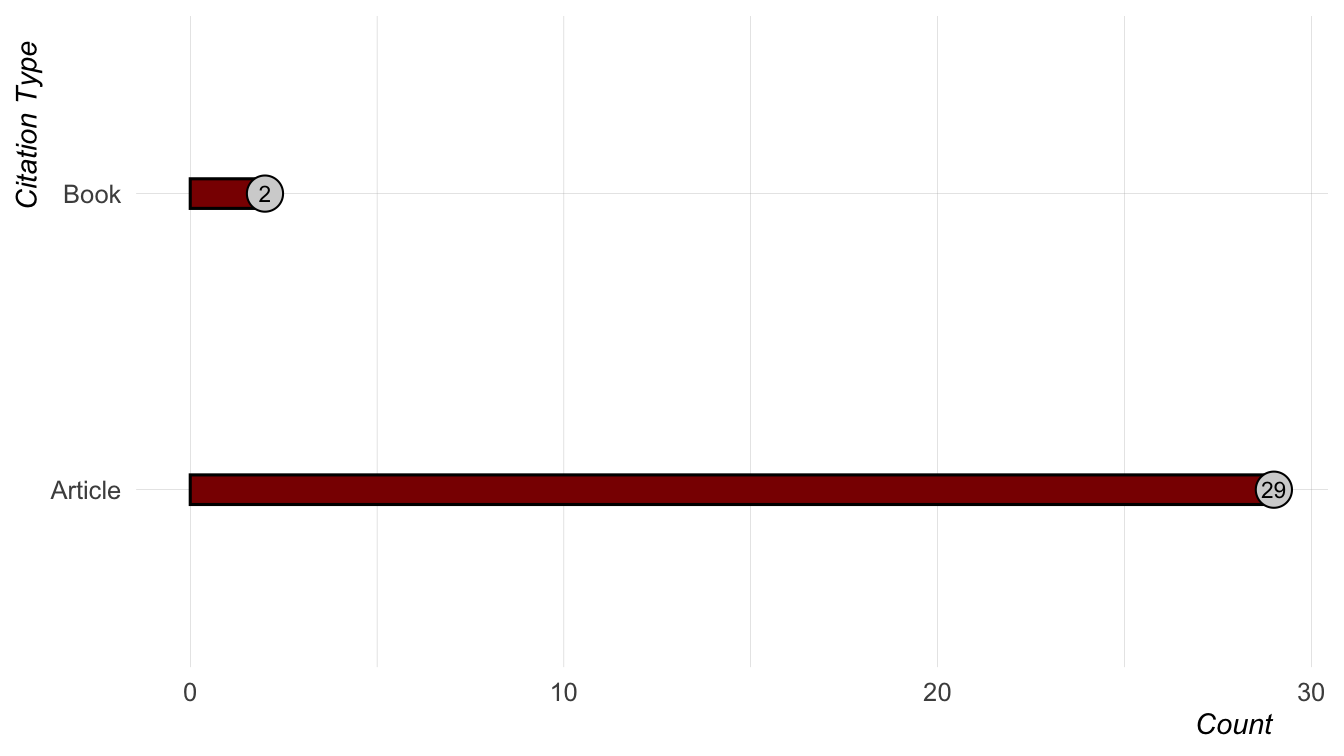
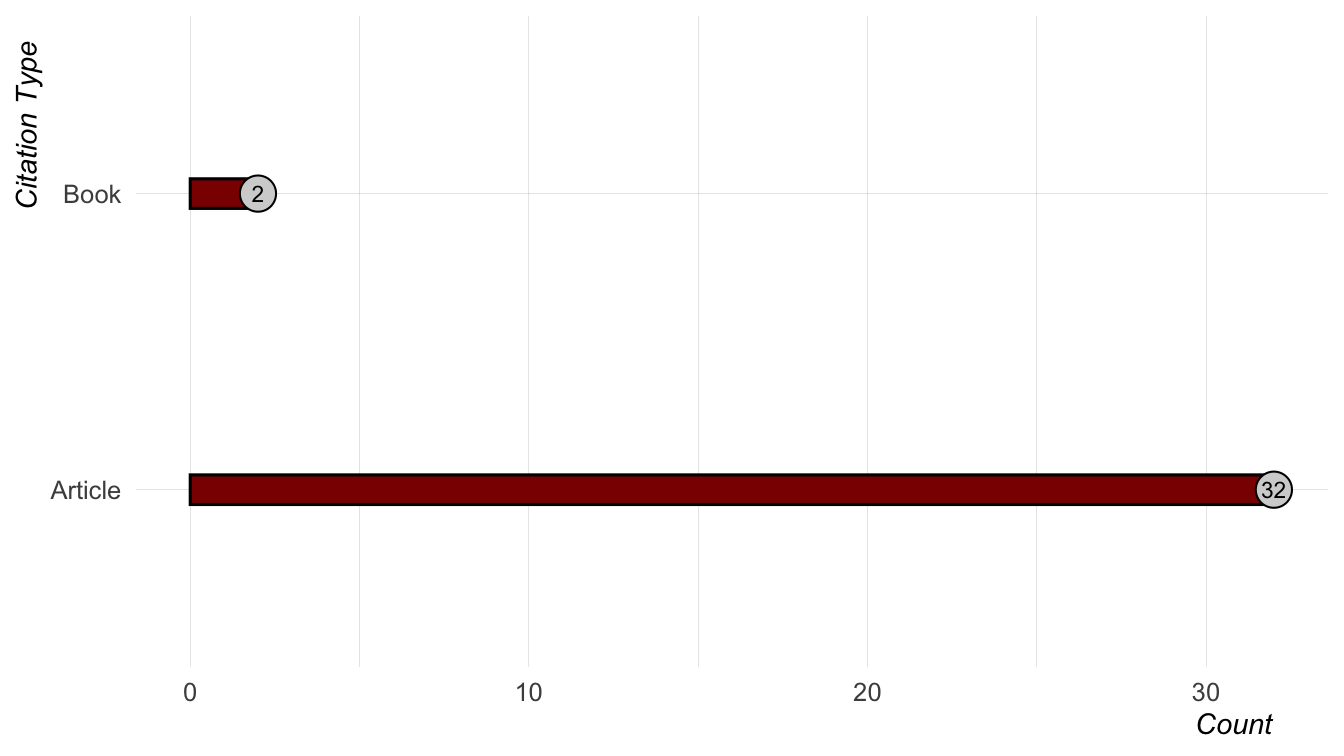
ch 2 ref updates

diff --git a/README.md b/README.md
@@ -1,6 +1,6 @@
 # Forking Paths, Open Doors references
 Joseph V. Casillas
-2026-11-06
+2026-11-17
 
 ## Citation Types
 
@@ -24,8 +24,16 @@ style="width:100.0%" />
 
 # Reference list
 
-<div id="refs" class="references csl-bib-body hanging-indent"
-entry-spacing="0">
+<div id="refs" class="references csl-bib-body hanging-indent">
+
+<div id="ref-alhoorie_hiver_innami-2024" class="csl-entry">
+
+Al-Hoorie, Ali H., Phil Hiver, and Yo In’nami. 2024. “The Validation
+Crisis in the L2 Motivational Self System Tradition.” *Studies in Second
+Language Acquisition* 46 (2): 307–29.
+<https://doi.org/10.1017/S0272263123000487>.
+
+</div>
 
 <div id="ref-Amrhein2019RiseUp" class="csl-entry">
 
@@ -44,13 +52,12 @@ Applied Linguistics* 40: 134–42.
 
 </div>
 
-<div id="ref-Coretta2023Multidimensional" class="csl-entry">
+<div id="ref-coretta_etal-2023" class="csl-entry">
 
-Coretta, Stefano, Joseph V. Casillas, Simone Roessig, Michael Franke, B.
-Ahn, Ali H. Al-Hoorie, Jalal Al-Tamimi, et al. 2023. “Multidimensional
-Signals and Analytic Flexibility: Estimating Degrees of Freedom in
-Human-Speech Analyses.” *Advances in Methods and Practices in
-Psychological Science* 6 (3): 25152459231162567.
+Coretta, Stefano, Joseph V. Casillas, Simone Roessig, et al. 2023.
+“Multidimensional Signals and Analytic Flexibility: Estimating Degrees
+of Freedom in Human-Speech Analyses.” *Advances in Methods and Practices
+in Psychological Science* 6 (3): 25152459231162567.
 <https://doi.org/10.1177/25152459231162567>.
 
 </div>
@@ -107,11 +114,21 @@ Weirdest People in the World?” *Behavioral and Brain Sciences* 33 (2-3):
 
 </div>
 
+<div id="ref-huensch_nagle-2023" class="csl-entry">
+
+Huensch, Amanda, and Charlie Nagle. 2023. “Revisiting the Moderating
+Effect of Speaker Proficiency on the Relationships Among
+Intelligibility, Comprehensibility, and Accentedness in L2 Spanish.”
+*Studies in Second Language Acquisition* 45 (2): 571–85.
+<https://doi.org/10.1017/S0272263122000213>.
+
+</div>
+
 <div id="ref-Marsden2023OpenResearchFuture" class="csl-entry">
 
 Marsden, Emma, and Kara Morgan-Short. 2023. “(Why) Are Open Research
 Practices the Future for the Study of Language Learning?” *Language
-Learning*. <https://doi.org/10.1111/lang.12568>.
+Learning*, ahead of print. <https://doi.org/10.1111/lang.12568>.
 
 </div>
 
@@ -134,6 +151,16 @@ Applied Psychology.” *Journal of Applied Psychology* 110 (11): 1511–37.
 
 </div>
 
+<div id="ref-mcclelland-2025" class="csl-entry">
+
+McClelland, Neil, and Jenifer Larson-Hall. 2025. “Why You Should Stop
+Using the Ideal L2 Self and the L2 Motivational Self-System to Measure
+Motivation (Reaction to Al-Hoorie, Hiver & in’nami, 2024).” *Studies in
+Second Language Acquisition* 47 (4): 1121–32.
+<https://doi.org/10.1017/S0272263124000779>.
+
+</div>
+
 <div id="ref-McMurray2023Functionalist" class="csl-entry">
 
 McMurray, Bob, Karen S. Baxelbaum, Susan Colby, and J. Bruce Tomblin.
@@ -153,11 +180,9 @@ Language Acquisition Research.” *Language Learning* 71 (1): 204–42.
 
 <div id="ref-MorganShort2018MultisiteReplication" class="csl-entry">
 
-Morgan-Short, Kara, Emma Marsden, Jeanne Heil, B. I. Issa, Ronald P.
-Leow, Anna Mikhaylova, S. Mikołajczak, Noelia Moreno, Roumyana
-Slabakova, and Pawel Szudarski. 2018. “Multisite Replication in Second
-Language Acquisition Research.” *Language Learning* 68 (2): 392–437.
-<https://doi.org/10.1111/lang.12292>.
+Morgan-Short, Kara, Emma Marsden, Jeanne Heil, et al. 2018. “Multisite
+Replication in Second Language Acquisition Research.” *Language
+Learning* 68 (2): 392–437. <https://doi.org/10.1111/lang.12292>.
 
 </div>
 
@@ -170,7 +195,7 @@ Considerations.” *Research Methods in Applied Linguistics* 2 (1):
 
 </div>
 
-<div id="ref-Norouzian2018Bayesian" class="csl-entry">
+<div id="ref-norouzian-2018" class="csl-entry">
 
 Norouzian, Ramin, M. de Miranda, and Luke Plonsky. 2018. “The Bayesian
 Revolution in Second Language Research.” *Language Learning* 68 (4):
@@ -232,7 +257,7 @@ Language Research*. Routledge.
 
 Plonsky, Luke, Sam Sterling, Kevin Yaw, T. Larsson, and Merja Kytö.
 2025. “Expanding the Scope of Questionable Research Practices in Applied
-Linguistics.” *Journal of Second Language Studies*.
+Linguistics.” *Journal of Second Language Studies*, ahead of print.
 <https://doi.org/10.1075/jsls.00060.plo>.
 
 </div>
